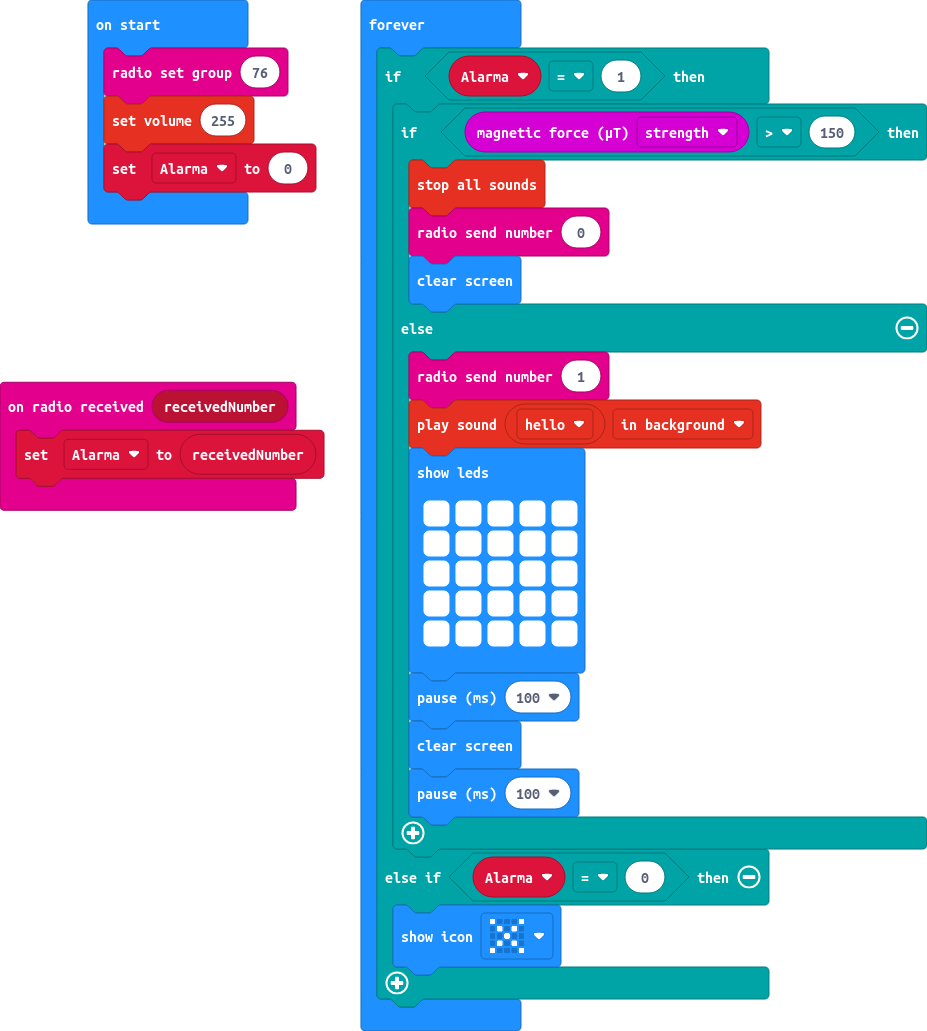
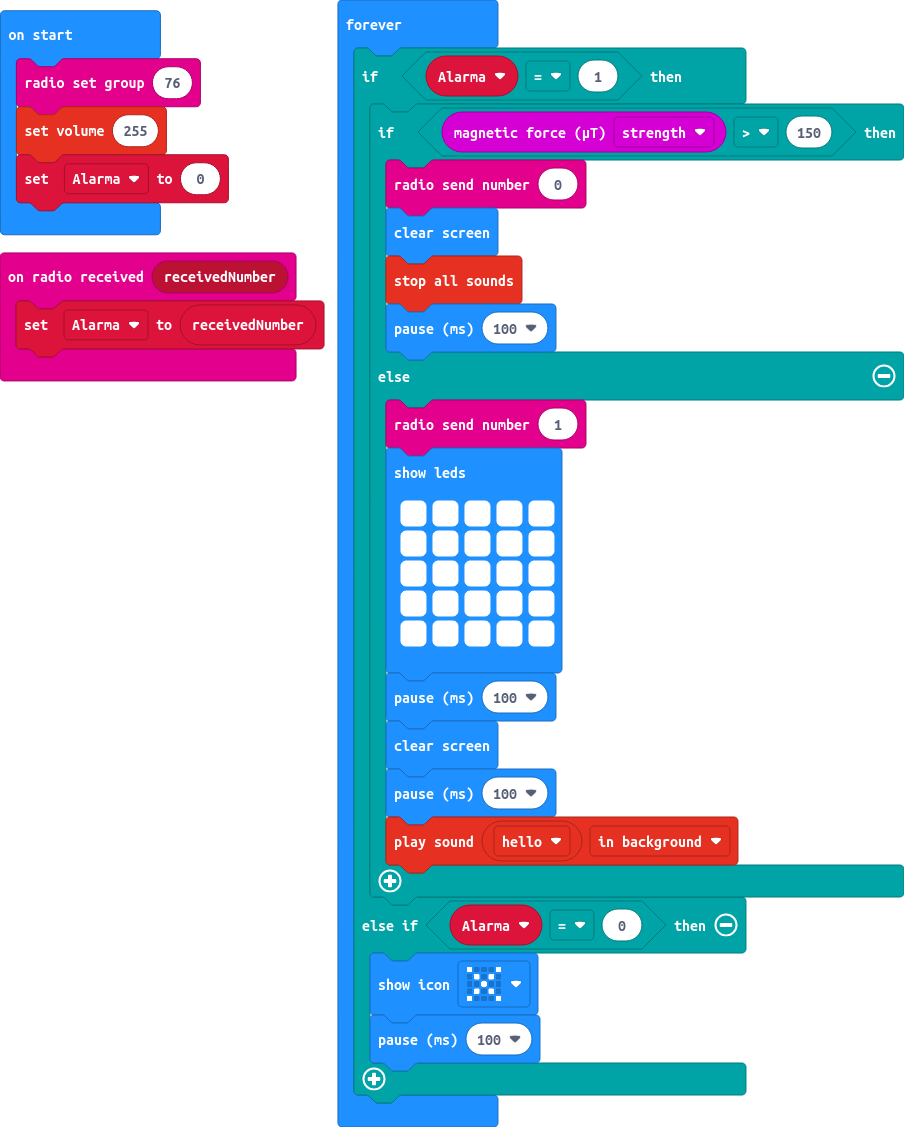
Update main.blocks, main.ts

diff --git a/main.ts b/main.ts
@@ -8,12 +8,12 @@ Alarma = 0
 basic.forever(function () {
     if (Alarma == 1) {
         if (input.magneticForce(Dimension.Strength) > 150) {
-            music.stopAllSounds()
             radio.sendNumber(0)
             basic.clearScreen()
+            music.stopAllSounds()
+            basic.pause(100)
         } else {
             radio.sendNumber(1)
-            music.playSoundEffect(music.builtinSoundEffect(soundExpression.hello), SoundExpressionPlayMode.InBackground)
             basic.showLeds(`
                 # # # # #
                 # # # # #
@@ -24,8 +24,10 @@ basic.forever(function () {
             basic.pause(100)
             basic.clearScreen()
             basic.pause(100)
+            music.playSoundEffect(music.builtinSoundEffect(soundExpression.hello), SoundExpressionPlayMode.InBackground)
         }
     } else if (Alarma == 0) {
         basic.showIcon(IconNames.No)
+        basic.pause(100)
     }
 })
